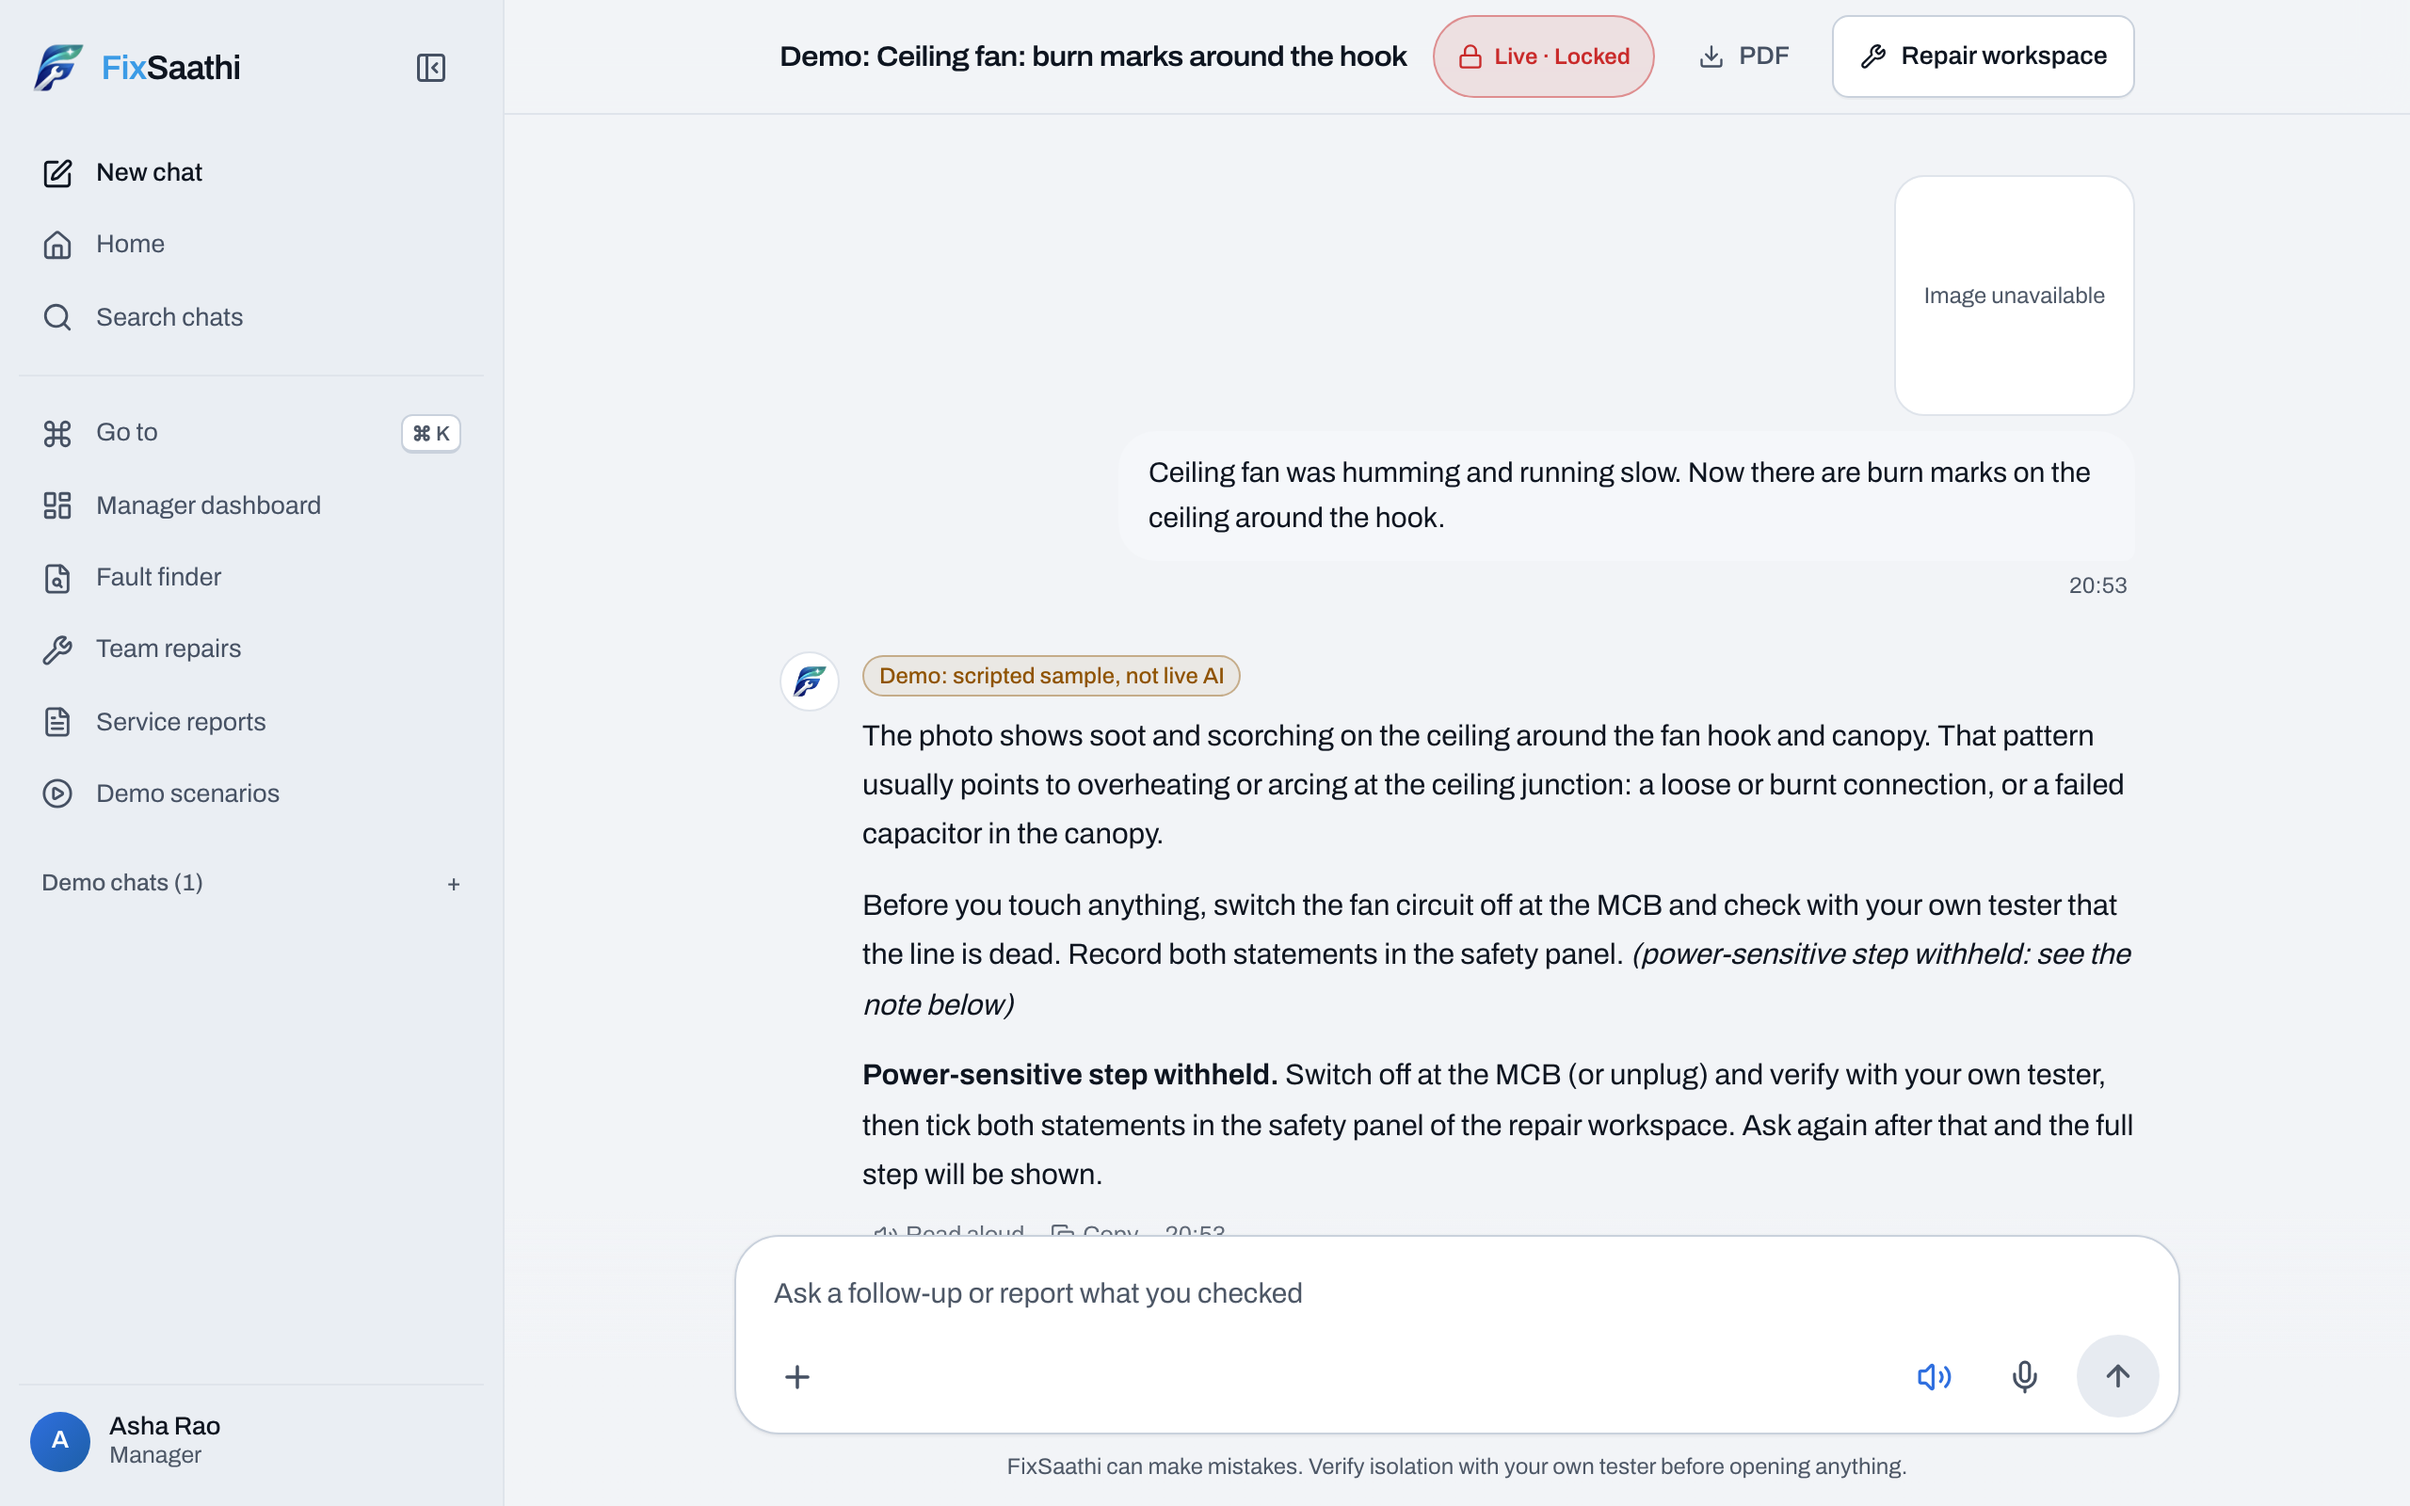
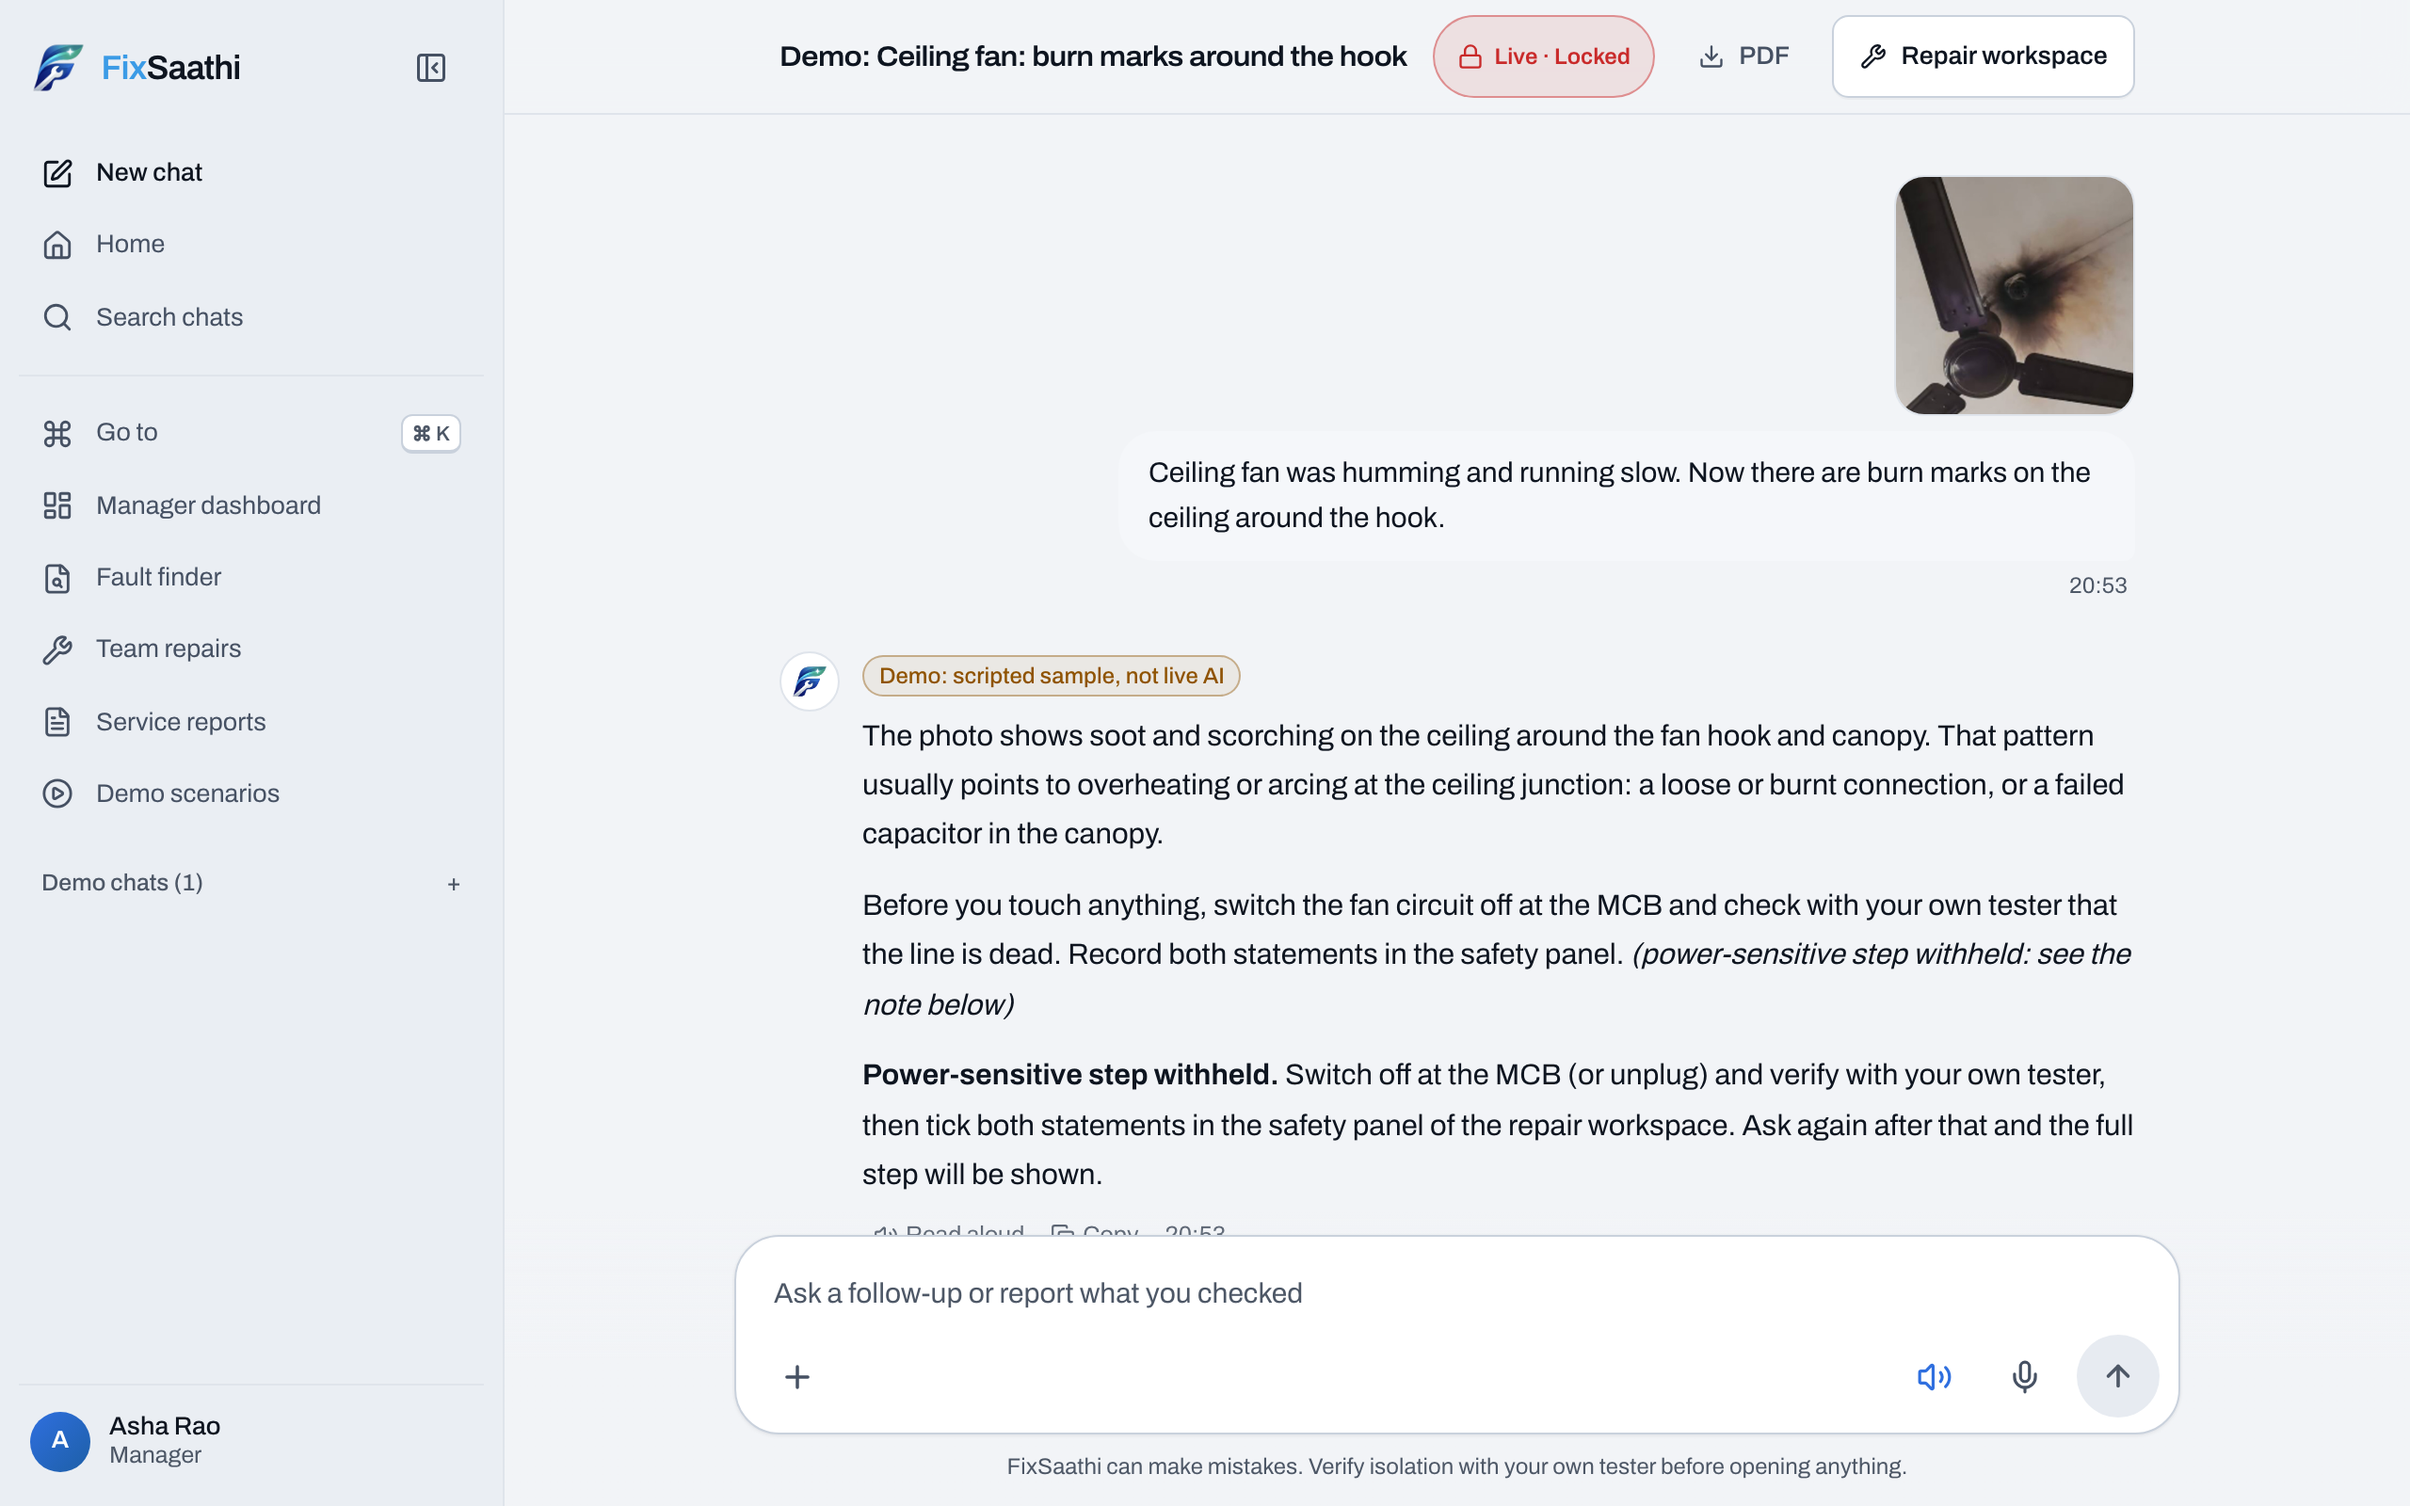
fix(demo): restore demo photo fallback and re-capture screenshots with loaded images

Changed region(s): [[0.7812, 0.0938, 0.9062, 0.2812]]

diff --git a/backend/app/api/v1/sessions.py b/backend/app/api/v1/sessions.py
@@ -382,7 +382,7 @@ def get_media(media_id: uuid.UUID, u: User = Depends(current_user), db: Session 
     m = db.get(Media, media_id)
     if not m:
         raise NotFound('File not found.')
-    get_readable_session(db, u, m.session_id)  # authorisation through the owning session
+    s = get_readable_session(db, u, m.session_id)  # authorisation through the owning session
     headers = {'Cache-Control': 'private, max-age=300', 'X-Content-Type-Options': 'nosniff'}
     if m.kind == 'document':
         from urllib.parse import quote
@@ -391,4 +391,14 @@ def get_media(media_id: uuid.UUID, u: User = Depends(current_user), db: Session 
         headers['Content-Disposition'] = f"{'inline' if inline else 'attachment'}; filename*=UTF-8''{quote(name)}"
         headers['Content-Security-Policy'] = "default-src 'none'; sandbox"  # nothing in a document can run scripts
     media_type = f'{m.mime_type}; charset=utf-8' if m.mime_type.startswith('text/') else m.mime_type
-    return Response(get_storage().get(m.storage_key), media_type=media_type, headers=headers)
+    try:
+        data = get_storage().get(m.storage_key)
+    except AppError as e:
+        if e.code == 'MEDIA_MISSING' and m.kind != 'generated' and (m.meta or {}).get('demo'):
+            from ...demo.scenarios import HERE, SCENARIOS
+            sc = SCENARIOS.get(is_demo(s) or '')
+            photo = sc and sc.get('photo')
+            if photo and (HERE / photo).is_file():
+                return Response((HERE / photo).read_bytes(), media_type=media_type, headers=headers)
+        raise
+    return Response(data, media_type=media_type, headers=headers)

diff --git a/backend/tests/test_demo_and_storage.py b/backend/tests/test_demo_and_storage.py
@@ -85,3 +85,17 @@ def test_health_checks_the_database_and_supports_head(client, monkeypatch):
         def close(self): pass
     monkeypatch.setattr(main, 'SessionLocal', lambda: Broken())
     r = client.get('/health'); assert r.status_code == 503 and r.json()['status'] == 'unhealthy' and r.json()['database'] == 'unreachable'
+
+
+def test_demo_photo_falls_back_to_bundled_asset_when_uploads_cleared(client, tech, other):
+    s = _start(client, tech, 'ceiling_fan_burn')
+    media = client.get(f"/api/v1/sessions/{s['id']}/images", headers=tech['h']).json()
+    assert len(media) == 1
+    url = media[0]['url']
+    import shutil
+    shutil.rmtree(st.get_storage().root, ignore_errors=True)
+    r = client.get(url, headers=tech['h'])
+    assert r.status_code == 200
+    assert r.headers['content-type'].startswith('image/jpeg')
+    assert len(r.content) > 1000
+    assert client.get(url, headers=other['h']).status_code == 404

diff --git a/README.md b/README.md
@@ -10,7 +10,7 @@
 ![FastAPI](https://img.shields.io/badge/FastAPI-PostgreSQL-009688?logo=fastapi&logoColor=white)
 ![Gemini](https://img.shields.io/badge/Google_Gemini-RAG_+_Live_voice-4285F4?logo=google&logoColor=white)
 [![CI](https://github.com/priyamthakur275/FixSathi/actions/workflows/ci.yml/badge.svg)](https://github.com/priyamthakur275/FixSathi/actions/workflows/ci.yml)
-![Tests](https://img.shields.io/badge/tests-476-2ea44f)
+![Tests](https://img.shields.io/badge/tests-477-2ea44f)
 ![Deploy](https://img.shields.io/badge/deployed_on-Render-46E3B7?logo=render&logoColor=white)
 [![License: MIT](https://img.shields.io/badge/license-MIT-blue)](LICENSE)
 
@@ -121,7 +121,7 @@ flowchart TD
 
 - **Backend:** FastAPI, SQLAlchemy 2, Alembic, PostgreSQL 16, `google-genai`. JWT access and refresh tokens, organisation-scoped access for managers, rate-limited sign-in, a per-account AI quota so one public sign-up cannot use up the Gemini key, uploads checked by content and re-encoded without location data.
 - **Frontend:** React 19, TypeScript, Vite, Tailwind 4, Framer Motion, Recharts. Mobile-first, works on a phone browser. Archivo at two widths (expanded for headings and figures); red and green are kept for power state only, and the safety panel draws the breaker the technician has switched off. A command palette (Ctrl K / Cmd K) reaches every page and past repair, and the team dashboard refreshes itself every minute. Checked with axe-core: no WCAG 2 AA violations on the main screens in either theme (the wordmark logo excepted).
-- **Tests:** 476 automated tests: 387 backend tests run the real Alembic migrations on PostgreSQL with Gemini replaced by a deterministic fake, and 89 frontend tests (Vitest, Testing Library). Plus the offline evaluation and the answer-quality check above.
+- **Tests:** 477 automated tests: 388 backend tests run the real Alembic migrations on PostgreSQL with Gemini replaced by a deterministic fake, and 89 frontend tests (Vitest, Testing Library). Plus the offline evaluation and the answer-quality check above.
 - **Data pipeline:** `scripts/process_datasets.py` normalises the sources into one schema with licence and verification status per record; `scripts/dataset_quality_report.py` reports coverage. See [docs/DATASET_ARCHITECTURE.md](docs/DATASET_ARCHITECTURE.md).
 - **Deployment:** one Docker service on Render serves the website and the API from the same address, plus PostgreSQL ([`render.yaml`](render.yaml)); no URL is written into the config, so it deploys to any account. Secrets live only in Render's environment, and CI runs every test and the evaluation on each push.
 
